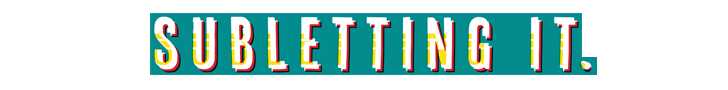
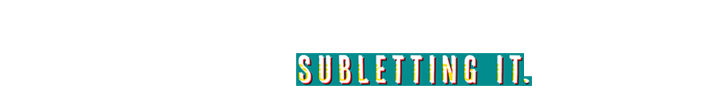
tiny kitchen 728x90 done

diff --git a/Atlas clickTag/Tiny Kitchen/728x90/Animation.js b/Atlas clickTag/Tiny Kitchen/728x90/Animation.js
@@ -16,6 +16,7 @@ var BanTimeline = {
   frame3Wrap: document.getElementById("frame3Wrap"),
   frame4Wrap: document.getElementById("frame4Wrap"),
   frame5Wrap: document.getElementById("frame5Wrap"),
+  globalLogo: document.getElementById("globalLogo"),
   bind: function (elem, eventName, callback) {if (elem.addEventListener) {elem.addEventListener(eventName, callback, false);}else if (elem.attachEvent) {var eID = elem.attachEvent('on'+ eventName, callback);boundEvents[eID] = { name: eventName, callback: callback };}},
   init: function () {
      // CTA BTN CLICKTAG //
@@ -28,7 +29,7 @@ var BanTimeline = {
     // initial settings for banner frame 1.  In case banner needs to restart.  add as many as you can to CSS first so Banner doesn't jump
       TweenLite.to(your, 0, {left:-250,scaleX:0, scaleY:0});
       TweenLite.to(f5OrderNow, 0, {top:50,scaleX:1, scaleY:1.5});
-      TweenLite.to(f4Subletting, 0, {left:600, opacity:0, display:'none'});
+      // TweenLite.to(f4Subletting, 0, {left:600, opacity:0, display:'none'});
       TweenLite.to(f5Logo, 0, {left:-100});
       TweenLite.to(f5NyEats, 0, {left:-100});
     // run animation after init is done. 
@@ -55,17 +56,14 @@ var BanTimeline = {
     TweenLite.to(frame2Wrap, .2, {opacity:0, display: 'none', delay: 0, ease:Power4.easeOut});
     TweenLite.to(f3andSoWill, .2, {opacity:1, display:'block', delay:.2});
     TweenLite.to(f3theGuy, .2, {opacity:1, display:'block', delay:.2});
-
-    TweenLite.delayedCall(3, BanTimeline.frame4);
-  },
-  frame4: function () {
-    TweenLite.to(frame3Wrap, .2, {opacity:0, display: 'none', delay: 0, ease:Power4.easeOut});
-    TweenLite.to(f4Subletting, 1.4, {opacity:1, display:'block', delay:0, ease:Power4.easeOut});
+    TweenLite.to(f4Subletting, 1.4, {opacity:1, display:'block', delay:.6, ease:Power4.easeOut});
     TweenLite.to(f4Subletting, 1, {left:0, delay: 0, ease:Power1.easeInOut});
 
     TweenLite.delayedCall(3.5, BanTimeline.frame5);
   },
   frame5: function () {
+    TweenLite.to(frame3Wrap, .2, {opacity:0, display: 'none', delay: 0, ease:Power4.easeOut});
+    TweenLite.to(globalLogo, .2, {opacity:0, display:'none', delay: 0}); 
     TweenLite.to(frame4Wrap, .2, {opacity:0, display: 'none', delay: 0, ease:Power4.easeOut});
     TweenLite.to(f5Logo, .4, {opacity:1, display: 'block', delay: .3, ease:Power4.easeOut});
     TweenLite.to(f5NyEats, .4, {opacity:1, display: 'block', delay: .8, ease:Power4.easeOut});

diff --git a/Atlas clickTag/Tiny Kitchen/728x90/style.css b/Atlas clickTag/Tiny Kitchen/728x90/style.css
@@ -1,6 +1,6 @@
 @charset "UTF-8";
 /* CSS Document */
-
+body{margin: 0;}
 #container {
     position: absolute;
     width:726px;
@@ -11,7 +11,11 @@
     overflow:hidden;
     cursor: pointer;
 }
-
+.show{
+    position: absolute;
+    display:block;
+    opacity:1;
+}
 #f2Star1, #f2Star2, #f2Star3, #your, #tinyKitchen, #f2willThankYou, #f3andSoWill, #f3theGuy, #f4Subletting, #f5Logo, #f5NyEats, #f5OrderNow{
     position: absolute;
     display:none;

diff --git a/Atlas clickTag/Tiny Kitchen/728x90/728x90.html b/Atlas clickTag/Tiny Kitchen/728x90/728x90.html
@@ -10,6 +10,7 @@
   <div id="container">
       <!-- Content -->
       <!--  Frame 1 -->
+      <div id="globalLogo" class="show"><img src="globalLogo.png" /></div>
       <div id="frame1Wrap">
         <div id="your"><img src="your.png"></div>
         <div id="tinyKitchen"><img src="tinyKitchen.png"></div>
